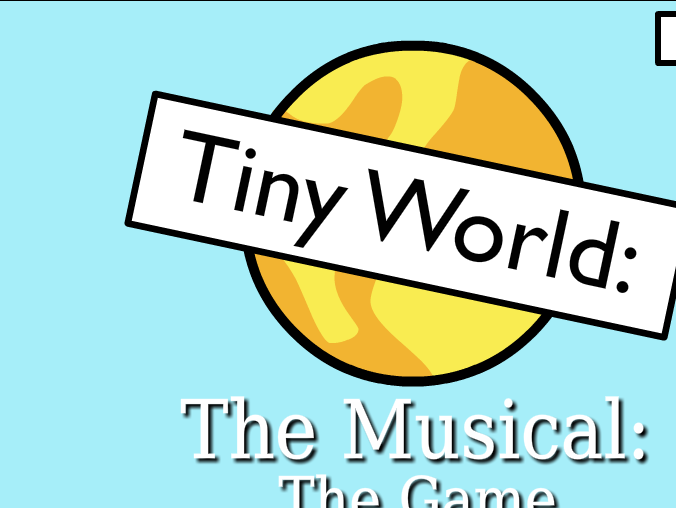
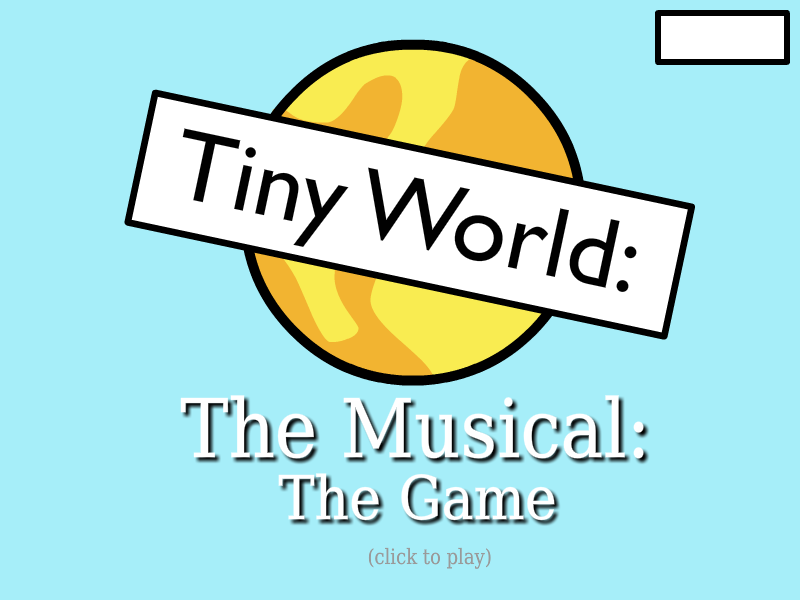
Tiny World: full-stage poster and browser-drawn device fonts (#216)
The poster was a crop of the native-size stage from before #206; retaken from
Ruffle at the full 800x600 framing, with a test that it matches the stage
aspect. Ruffle's default device-font renderer swapped Georgia for Noto Sans
(wider, overlapping lines) and dropped the large Credits heading; deviceFontRenderer
canvas lets the browser draw them. The Credits/Back button label still does not
render: the game draws it with flash.text.engine, which Ruffle 0.7.1 stubs.

diff --git a/src/lib/render/swf.test.ts b/src/lib/render/swf.test.ts
@@ -1,6 +1,7 @@
 import { describe, it, expect } from 'vitest';
 import { deflateSync } from 'node:zlib';
-import { parseSwfHeader } from '@render/swf';
+import { readFileSync } from 'node:fs';
+import { parseSwfHeader, readCardSwfHeader } from '@render/swf';
 
 // Bit-packs a SWF RECT (Nbits, then Xmin/Xmax/Ymin/Ymax) into bytes.
 function rect(xmin: number, xmax: number, ymin: number, ymax: number, nbits: number): number[] {
@@ -44,5 +45,19 @@ describe('parseSwfHeader', () => {
 
   it('fails clearly on something that is not a SWF', () => {
     expect(() => parseSwfHeader(Uint8Array.from([1, 2, 3, 4, 5, 6, 7, 8, 9]))).toThrow(/not a SWF/i);
+  });
+});
+
+describe('Tiny World poster', () => {
+  // The poster fills a stage box with the SWF's aspect ratio (object-fit: cover),
+  // so a poster of any other shape is cropped, and is not the framing Ruffle
+  // shows once the game starts (#216).
+  it('has the same aspect ratio as the stage it stands in for', () => {
+    const id = 'what/games/digital/tiny-world-the-musical-the-game';
+    const png = readFileSync(`src/content/${id}/poster.png`);
+    const posterW = png.readUInt32BE(16);
+    const posterH = png.readUInt32BE(20);
+    const stage = readCardSwfHeader(id)!;
+    expect(posterW / posterH).toBeCloseTo(stage.width / stage.height, 3);
   });
 });

diff --git a/src/lib/flash/ruffle-loader.test.ts b/src/lib/flash/ruffle-loader.test.ts
@@ -23,4 +23,14 @@ describe('loadRufflePlayer', () => {
     expect(load).toHaveBeenCalledTimes(1);
     expect(load.mock.calls[0]![0]).toMatchObject({ url: '/game.swf', scale: 'showAll', forceScale: true });
   });
+
+  it('draws device fonts with the browser, not Ruffle\'s one built-in sans', async () => {
+    // The game names Georgia; the default renderer swaps every device font for
+    // Noto Sans (wrong face, wider metrics) and drops some large text entirely.
+    vi.resetModules();
+    const { loadRufflePlayer: fresh } = await import('./ruffle-loader');
+    await fresh('/game.swf', document.createElement('div'));
+    expect(load.mock.calls[0]![0]).toMatchObject({ deviceFontRenderer: 'canvas' });
+    expect((window as any).RufflePlayer.config).toMatchObject({ deviceFontRenderer: 'canvas' });
+  });
 });

diff --git a/src/lib/flash/ruffle-loader.ts b/src/lib/flash/ruffle-loader.ts
@@ -17,6 +17,11 @@ const CONFIG = {
   // has the SWF's aspect ratio, so fitting the game to it is lossless.
   scale: 'showAll',
   forceScale: true,
+  // Flash drew device fonts (a game that says "Georgia") with the visitor's own
+  // fonts. Ruffle's default renderer instead swaps every one for its built-in
+  // Noto Sans, which is the wrong face, wider (lines wrap and overlap) and
+  // drops some large text altogether. 'canvas' asks the browser to draw them.
+  deviceFontRenderer: 'canvas',
 };
 
 export const loadRufflePlayer: PlayerLoader = async (swfUrl, container) => {
